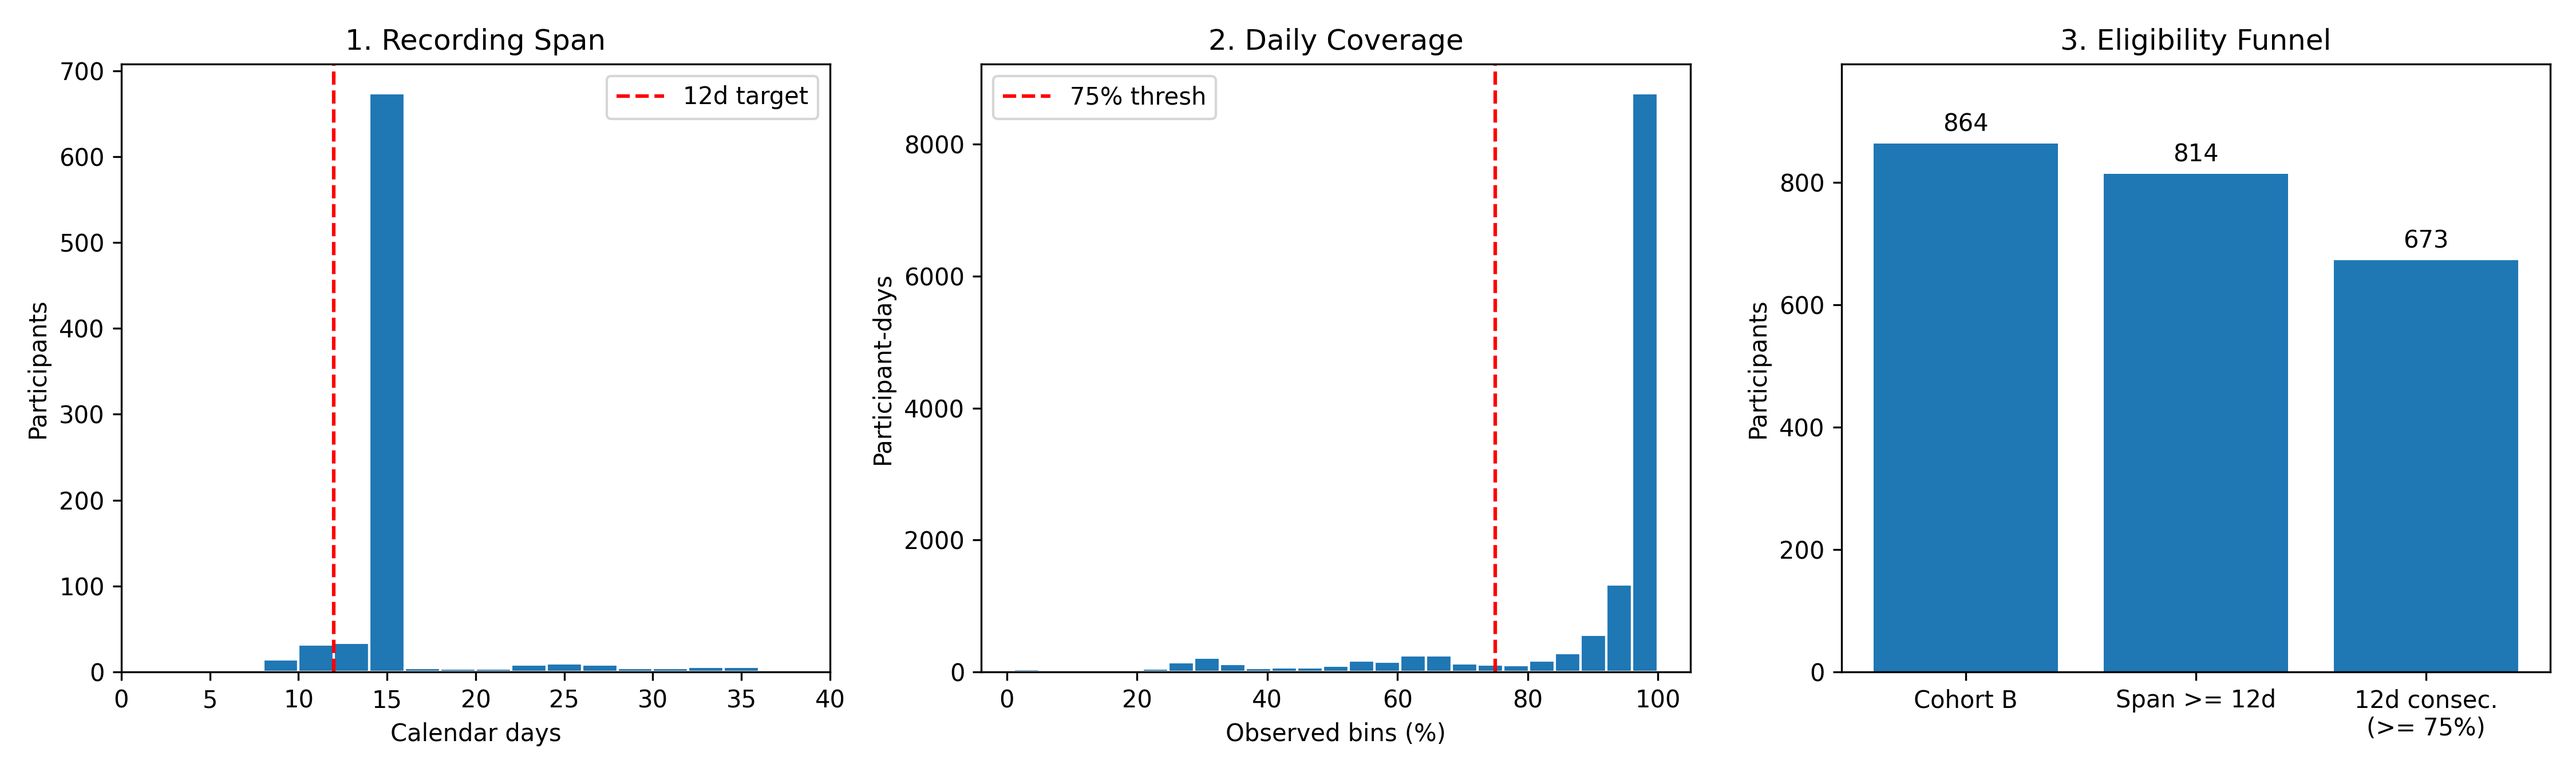
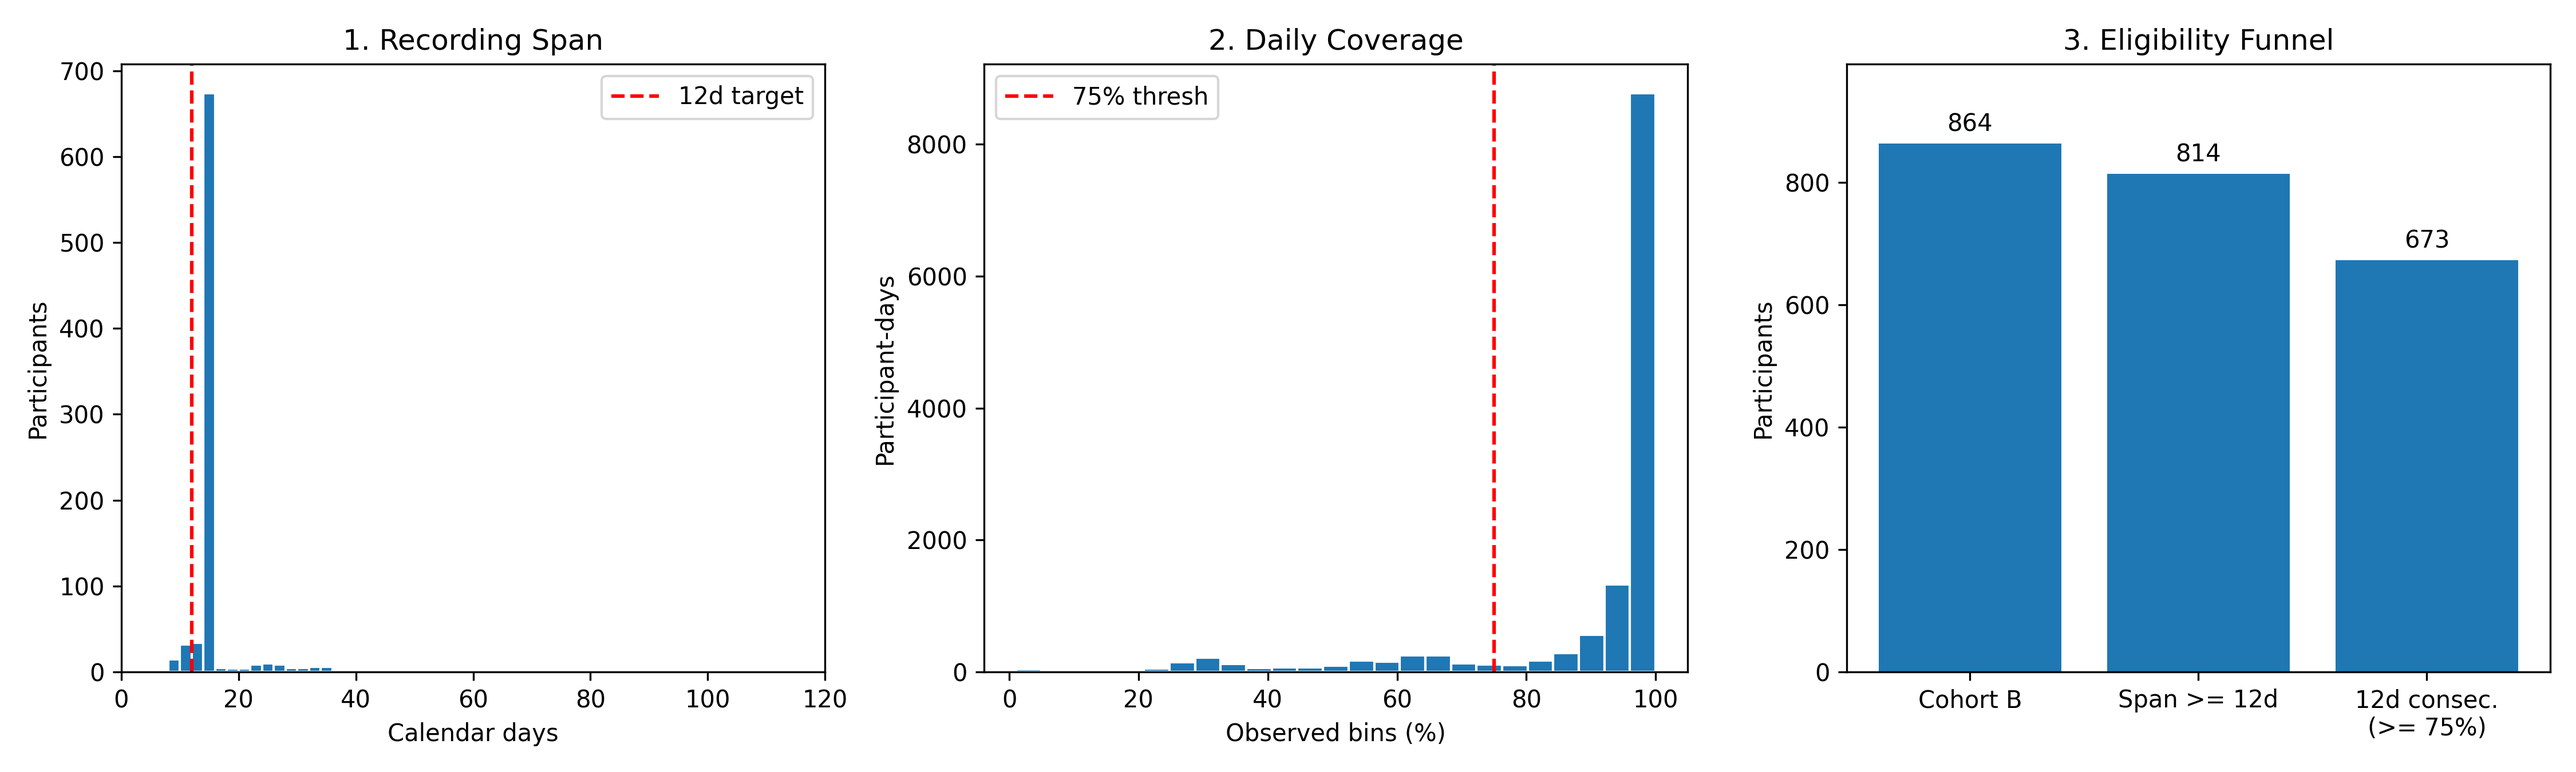
preprocess

diff --git a/src/datasets/preprocess.py b/src/datasets/preprocess.py
@@ -1,5 +1,22 @@
 from pathlib import Path
 import pandas as pd
+from sklearn.model_selection import train_test_split
+
+def filter_physiological_outliers(
+    df: pd.DataFrame,
+    min_mmol: float = 2.0,
+    max_mmol: float = 27.8,
+) -> pd.DataFrame:
+    """
+    Remove missing values and readings outside standard CGM physiological bounds
+    (2.0 to 27.8 mmol/L, i.e., ~36 to 500 mg/dL) before bin aggregation.
+    """
+    initial_rows = len(df)
+    valid_mask = df["val"].notna() & (df["val"] >= min_mmol) & (df["val"] <= max_mmol)
+    cleaned = df.loc[valid_mask].copy()
+    removed = initial_rows - len(cleaned)
+    print(f"[1/3] Outlier filter [{min_mmol}, {max_mmol} mmol/L]: removed {removed} rows ({len(cleaned)} remaining)")
+    return cleaned
 
 
 def preprocess_glucose(
@@ -49,5 +66,92 @@ def preprocess_glucose(
     return cleaned_df
 
 
+def extract_eligible_blocks(
+    cleaned_df: pd.DataFrame,
+    output_filename: str = "glucose_eligible_12d.csv",
+    timezone: str = "Europe/Zurich",
+    cov_thresh: float = 0.75,
+    block_days: int = 12,
+) -> tuple[pd.DataFrame, pd.DataFrame, pd.DataFrame]:
+    """
+    Compute daily coverage, identify participants with >= `block_days` consecutive valid days
+    (coverage >= `cov_thresh`), save their first contiguous `block_days` block, and return
+    (eligible_df, daily_df, stats_df) so audit plots reuse the exact same logic.
+    """
+    project_root = Path(__file__).resolve().parents[3]
+    out_path = project_root / "data" / "processed" / output_filename
+
+    df = cleaned_df.copy()
+    df["local_date"] = pd.to_datetime(df["read_at"], format="ISO8601", utc=True).dt.tz_convert(timezone).dt.date
+
+    daily = df.groupby(["user_id", "local_date"]).size().reset_index(name="bins")
+    daily["cov"] = (daily["bins"] / 96.0).clip(upper=1.0)
+    daily["valid"] = daily["cov"] >= cov_thresh
+    daily["date_dt"] = pd.to_datetime(daily["local_date"])
+
+    stats = []
+    eligible_windows = []
+    for uid, g in daily.groupby("user_id"):
+        span = (g["date_dt"].max() - g["date_dt"].min()).days + 1
+        v_dates = g.loc[g["valid"], "date_dt"].sort_values().reset_index(drop=True)
+        consec = v_dates.groupby(v_dates.diff().dt.days.ne(1).cumsum()).size().max() if len(v_dates) else 0
+        stats.append({"user_id": uid, "span": span, "consec": consec})
+
+        if consec >= block_days:
+            streak_ids = v_dates.diff().dt.days.ne(1).cumsum()
+            for _, streak in v_dates.groupby(streak_ids):
+                if len(streak) >= block_days:
+                    eligible_windows.append((uid, set(streak.iloc[:block_days].dt.date)))
+                    break
+
+    stats_df = pd.DataFrame(stats)
+    eligible_df = pd.concat(
+        [df[(df["user_id"] == uid) & (df["local_date"].isin(dates))] for uid, dates in eligible_windows],
+        ignore_index=True,
+    ).drop(columns=["local_date"])
+
+    eligible_df.to_csv(out_path, index=False)
+    print(f"Eligible cohort ({block_days}d consecutive >= {int(cov_thresh * 100)}%): {eligible_df['user_id'].nunique()} participants -> {out_path}")
+    return eligible_df, daily, stats_df
+
+from sklearn.model_selection import train_test_split
+
+
+def split_and_save_cohort(
+    eligible_df: pd.DataFrame,
+    train_ratio: float = 0.70,
+    val_ratio: float = 0.15,
+    random_state: int = 42,
+) -> tuple[pd.DataFrame, pd.DataFrame, pd.DataFrame]:
+    """
+    Split eligible participants into disjoint Train (70%), Val (15%), and Test (15%)
+    sets by `user_id` and save them to `data/processed/`.
+    """
+    project_root = Path(__file__).resolve().parents[3]
+    processed_dir = project_root / "data" / "processed"
+
+    users = sorted(eligible_df["user_id"].unique())
+    train_users, temp_users = train_test_split(
+        users, train_size=train_ratio, random_state=random_state
+    )
+    val_users, test_users = train_test_split(
+        temp_users, train_size=val_ratio / (1.0 - train_ratio), random_state=random_state
+    )
+
+    splits = {
+        "train_12d.csv": eligible_df[eligible_df["user_id"].isin(train_users)].copy(),
+        "val_12d.csv": eligible_df[eligible_df["user_id"].isin(val_users)].copy(),
+        "test_12d.csv": eligible_df[eligible_df["user_id"].isin(test_users)].copy(),
+    }
+
+    for filename, split_df in splits.items():
+        split_df.to_csv(processed_dir / filename, index=False)
+        print(f"Saved {filename:<15} : {split_df['user_id'].nunique()} participants ({len(split_df)} bins)")
+
+    return splits["train_12d.csv"], splits["val_12d.csv"], splits["test_12d.csv"]
+
+
 if __name__ == "__main__":
-    preprocess_glucose()
+    cleaned = preprocess_glucose()
+    eligible, _, _ = extract_eligible_blocks(cleaned)
+    split_and_save_cohort(eligible)

diff --git a/src/utils/plot_audio.py b/src/utils/plot_audio.py
@@ -1,46 +1,31 @@
 from pathlib import Path
 import matplotlib.pyplot as plt
 import pandas as pd
+import sys
+sys.path.insert(0, str(Path(__file__).resolve().parents[2]))
+from src.datasets.preprocess import extract_eligible_blocks
+
 
 
 def plot_audit(cov_thresh: float = 0.75, block_days: int = 12) -> None:
     """
-    Generate the three baseline audit plots from the cleaned Cohort B glucose dataset:
-    1. Recording span per participant (total calendar days from first to last reading).
-    2. Daily coverage distribution (% of expected 15-min bins observed per day, out of 96).
-    3. Participant eligibility funnel (Cohort B -> >=12-day span -> >=12 consecutive valid days).
-
-    Args:
-        cov_thresh: Minimum daily fraction of observed 15-min bins to consider a day valid (default: 0.75).
-        block_days: Required consecutive valid days for the main prediction block (default: 12).
+    Generate the three baseline audit plots using the exact eligibility metrics
+    computed by `extract_eligible_blocks`.
     """
     project_root = Path(__file__).resolve().parents[3]
-    df = pd.read_csv(project_root / "data" / "processed" / "glucose_cleaned.csv")
-    df["local_date"] = pd.to_datetime(df["read_at"], format="ISO8601", utc=True).dt.tz_convert("Europe/Zurich").dt.date
+    cleaned_df = pd.read_csv(project_root / "data" / "processed" / "glucose_cleaned.csv")
     fig_dir = project_root / "MLproject2" / "figures"
     fig_dir.mkdir(parents=True, exist_ok=True)
 
-    # Daily coverage (96 expected 15-min bins/day)
-    daily = df.groupby(["user_id", "local_date"]).size().reset_index(name="bins")
-    daily["cov"] = (daily["bins"] / 96.0).clip(upper=1.0)
-    daily["valid"] = daily["cov"] >= cov_thresh #>75%
-    daily["date_dt"] = pd.to_datetime(daily["local_date"])
+    _, daily, stats_df = extract_eligible_blocks(
+        cleaned_df, cov_thresh=cov_thresh, block_days=block_days
+    )
 
-    # Span & max consecutive valid days per participant
-    stats = []
-    for uid, g in daily.groupby("user_id"):
-        span = (g["date_dt"].max() - g["date_dt"].min()).days + 1
-        v_dates = g.loc[g["valid"], "date_dt"].sort_values()
-        consec = v_dates.groupby(v_dates.diff().dt.days.ne(1).cumsum()).size().max() if len(v_dates) else 0
-        stats.append({"user_id": uid, "span": span, "consec": consec})
-    stats_df = pd.DataFrame(stats)
-
-    # Plot 3 audit panels
     fig, axes = plt.subplots(1, 3, figsize=(15, 4.5))
 
     axes[0].hist(stats_df["span"], bins=range(0, 125, 2), edgecolor="white")
     axes[0].axvline(block_days, color="red", ls="--", label=f"{block_days}d target")
-    axes[0].set(title="1. Recording Span", xlabel="Calendar days", ylabel="Participants", xlim=(0, 40))
+    axes[0].set(title="1. Recording Span", xlabel="Calendar days", ylabel="Participants", xlim=(0, 120))
     axes[0].legend()
 
     axes[1].hist(daily["cov"] * 100, bins=25, edgecolor="white")
@@ -57,6 +42,7 @@ def plot_audit(cov_thresh: float = 0.75, block_days: int = 12) -> None:
     plt.tight_layout()
     plt.savefig(fig_dir / "cohort_b_audit_overview.png", dpi=300)
     plt.close()
+
     print("=== ELIGIBLE COUNTS ===")
     for label, count in zip(labels, counts):
         clean_label = label.replace("\n", " ")

diff --git a/src/trainer/eval_baselines.py b/src/trainer/eval_baselines.py
@@ -1,0 +1,76 @@
+import sys
+from pathlib import Path
+
+sys.path.insert(0, str(Path(__file__).resolve().parents[2]))
+
+import numpy as np
+import pandas as pd
+from sklearn.linear_model import Ridge
+from sklearn.metrics import mean_absolute_error, root_mean_squared_error
+from sklearn.pipeline import make_pipeline
+from sklearn.preprocessing import StandardScaler
+
+from src.datasets.windowings import build_xy_cgm_only
+
+
+def evaluate_baselines(horizons: list[int] = [1, 3, 5, 7]) -> pd.DataFrame:
+    """
+    Evaluate Constant, Persistence, and standardized Ridge baselines on the
+    Validation set across observation windows k in {1, 3, 5, 7} days.
+    """
+    project_root = Path(__file__).resolve().parents[3]
+    processed_dir = project_root / "data" / "processed"
+
+    train_raw = pd.read_csv(processed_dir / "train_12d.csv")
+    val_raw = pd.read_csv(processed_dir / "val_12d.csv")
+
+    records = []
+
+    for k in horizons:
+        X_train, y_train = build_xy_cgm_only(train_raw, k_days=k)
+        X_val, y_val = build_xy_cgm_only(val_raw, k_days=k)
+
+        for target, persist_col in [("y_mean", "cgm_mean"), ("y_cv", "cgm_cv")]:
+            y_tr = y_train[target].to_numpy()
+            y_va = y_val[target].to_numpy()
+
+            # 1. Baseline Constante (mean of the training target)
+            pred_const = np.full(len(y_va), np.mean(y_tr))
+
+            # 2. Baseline de Persistance (value observed on the first k days)
+            pred_persist = X_val[persist_col].to_numpy()
+
+            # 3. Ridge Regression with standardization adjusted only on X_train
+            ridge = make_pipeline(StandardScaler(), Ridge(alpha=1.0))
+            ridge.fit(X_train, y_tr)
+            pred_ridge = ridge.predict(X_val)
+
+            for model_name, preds in [
+                ("Constant", pred_const),
+                ("Persistence", pred_persist),
+                ("Ridge_Standardized", pred_ridge),
+            ]:
+                records.append({
+                    "k_days": k,
+                    "target": target,
+                    "model": model_name,
+                    "RMSE": round(float(root_mean_squared_error(y_va, preds)), 4),
+                    "MAE": round(float(mean_absolute_error(y_va, preds)), 4),
+                })
+
+    results_df = pd.DataFrame(records)
+    print("\n=== VALIDATION BASELINE RESULTS (CGM ONLY) ===")
+    print(results_df.to_string(index=False))
+
+    # Sauvegarde dans un dossier dédié results/ à la racine du projet
+    results_dir = project_root / "results"
+    results_dir.mkdir(parents=True, exist_ok=True)
+
+    out_path = results_dir / "baseline_val_results.csv"
+    results_df.to_csv(out_path, index=False)
+    print(f"\nSaved results -> {out_path}")
+    return results_df
+
+
+if __name__ == "__main__":
+    evaluate_baselines()

diff --git a/src/datasets/windowings.py b/src/datasets/windowings.py
@@ -1,0 +1,66 @@
+import numpy as np
+import pandas as pd
+
+
+def build_xy_cgm_only(
+    split_df: pd.DataFrame,
+    k_days: int = 3,
+    target_start_day: int = 7,  # Jour 8 en indexation 0 (jours 7, 8, 9, 10, 11)
+    timezone: str = "Europe/Zurich",
+) -> tuple[pd.DataFrame, pd.DataFrame]:
+    """
+    Build feature matrix X (from days 1..k) and target matrix y (from days 8 to 12)
+    using only CGM glucose readings, with 1 row per participant.
+    """
+    if not (1 <= k_days <= target_start_day):
+        raise ValueError(f"k_days must be between 1 and {target_start_day}, got {k_days}")
+
+    df = split_df.copy()
+    ts_local = pd.to_datetime(df["read_at"], format="ISO8601", utc=True).dt.tz_convert(timezone)
+    df["local_date"] = ts_local.dt.date
+
+    # Numérotation relative des jours 0..11 dans le bloc de 12 jours de chaque participant
+    df = df.sort_values(["user_id", "local_date", "read_at"])
+    df["day_idx"] = df.groupby("user_id")["local_date"].transform(
+        lambda s: pd.factorize(s)[0]
+    )
+
+    X_rows = []
+    y_rows = []
+
+    for uid, g in df.groupby("user_id", sort=True):
+        past = g.loc[g["day_idx"] < k_days, "val"].to_numpy()
+        future = g.loc[g["day_idx"] >= target_start_day, "val"].to_numpy()
+
+        past_mean = float(np.mean(past))
+        past_std = float(np.std(past, ddof=1))
+        past_cv = 100.0 * past_std / past_mean
+
+        X_rows.append({
+            "user_id": uid,
+            "cgm_mean": past_mean,
+            "cgm_std": past_std,
+            "cgm_cv": past_cv,
+            "cgm_min": float(np.min(past)),
+            "cgm_q25": float(np.percentile(past, 25)),
+            "cgm_median": float(np.median(past)),
+            "cgm_q75": float(np.percentile(past, 75)),
+            "cgm_max": float(np.max(past)),
+            "cgm_iqr": float(np.percentile(past, 75) - np.percentile(past, 25)),
+            "cgm_tir_39_100": float(np.mean((past >= 3.9) & (past <= 10.0)) * 100.0),
+            "cgm_coverage": float(len(past) / (k_days * 96.0)),
+        })
+
+        fut_mean = float(np.mean(future))
+        fut_std = float(np.std(future, ddof=1))
+        fut_cv = 100.0 * fut_std / fut_mean
+
+        y_rows.append({
+            "user_id": uid,
+            "y_mean": fut_mean,
+            "y_cv": fut_cv,
+        })
+
+    X_df = pd.DataFrame(X_rows).set_index("user_id")
+    y_df = pd.DataFrame(y_rows).set_index("user_id")
+    return X_df, y_df

diff --git a/src/transforms/standardizer.py b/src/transforms/standardizer.py
@@ -1,0 +1,10 @@
+from sklearn.pipeline import make_pipeline
+from sklearn.preprocessing import StandardScaler
+from sklearn.linear_model import Ridge
+
+# Le pipeline ajuste automatiquement le StandardScaler UNIQUEMENT sur X_train
+# (et sur chaque fold d'entraînement si tu fais du K-Fold), puis transforme X_val / X_test :
+model = make_pipeline(StandardScaler(), Ridge(alpha=1.0))
+
+model.fit(X_train, y_train_mean)
+y_val_pred = model.predict(X_val)

diff --git a/src/datasets/__init__.py b/src/datasets/__init__.py
@@ -1,1 +1,1 @@
-from src.datasets.example import ExampleDataset
+#from src.datasets.example import ExampleDataset
